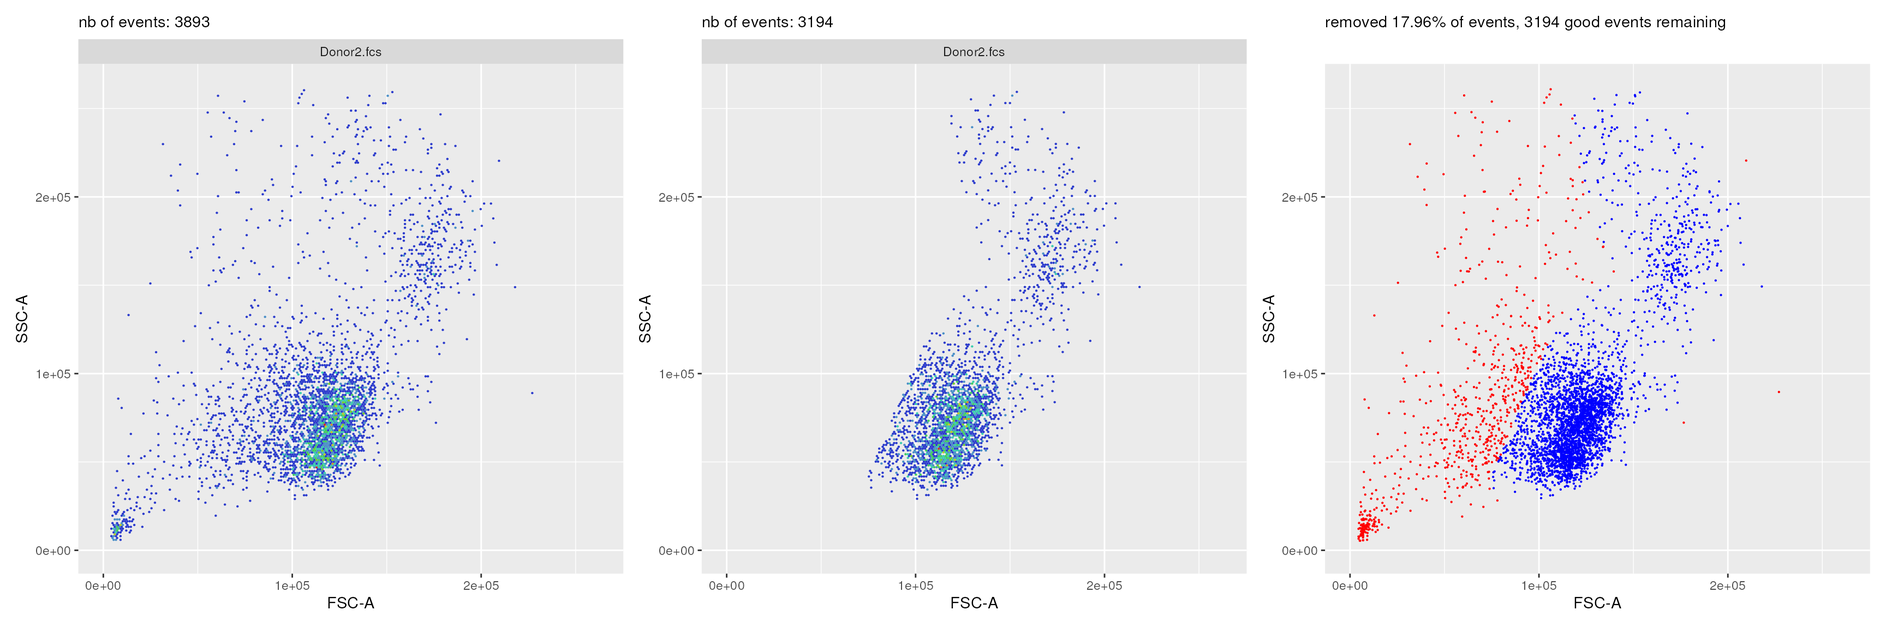
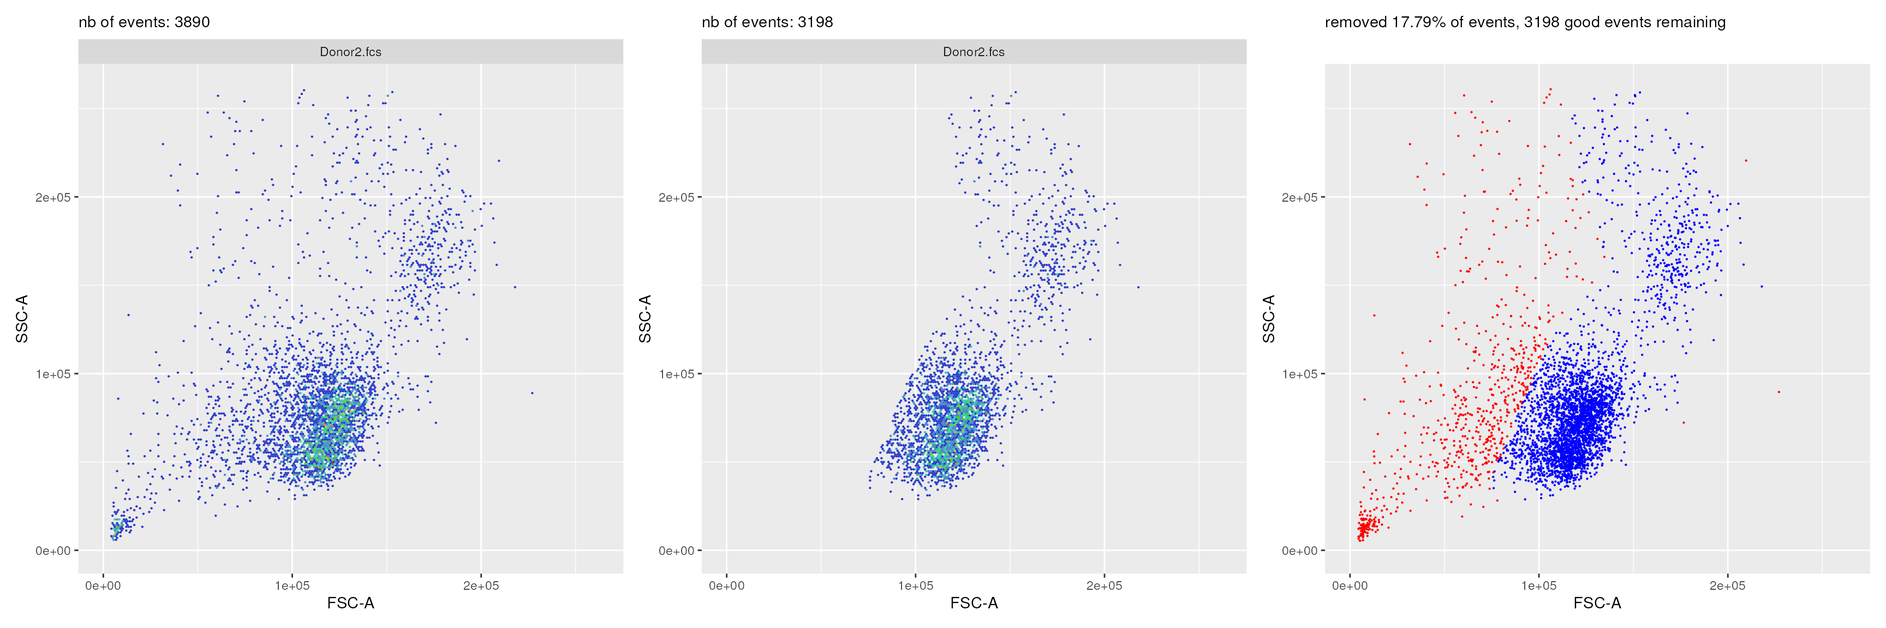
Deploying to gh-pages from @ phauchamps/CytoPipeline_BiocWS@13a338183e26586512362e38a291ed021830cdcc 🚀

diff --git a/articles/CytoPipeline_Workshop.html b/articles/CytoPipeline_Workshop.html
@@ -644,8 +644,6 @@ needed steps, we can run it, by calling the
 <span><span class="co">#&gt; Proceeding with step 3 [perform_QC] ...</span></span>
 <span><span class="co">#&gt; Applying flowAI method...</span></span>
 <span><span class="co">#&gt; Quality control for the file: Donor1</span></span>
-<span><span class="co">#&gt; Warning in ord_fcs_time(set[[i]], timeCh): Expression data in the file</span></span>
-<span><span class="co">#&gt; Donor1.fcs were not originally ordered by time.</span></span>
 <span><span class="co">#&gt; 3.56% of anomalous cells detected in the flow rate check. </span></span>
 <span><span class="co">#&gt; 0% of anomalous cells detected in signal acquisition check. </span></span>
 <span><span class="co">#&gt; 0.02% of anomalous cells detected in the dynamic range check.</span></span>
@@ -653,7 +651,7 @@ needed steps, we can run it, by calling the
 <span><span class="co">#&gt; Compensating file : Donor1.fcs</span></span>
 <span><span class="co">#&gt; Proceeding with step 5 [remove_doublets] ...</span></span>
 <span><span class="co">#&gt; Proceeding with step 6 [remove_debris] ...</span></span>
-<span><span class="co">#&gt; Error in removeDebrisFlowClustTmix(new("flowFrame", exprs = structure(c(7482.96044921875,  : </span></span>
+<span><span class="co">#&gt; Error in removeDebrisFlowClustTmix(new("flowFrame", exprs = structure(c(30859.201171875,  : </span></span>
 <span><span class="co">#&gt;   argument "nClust" is missing, with no default</span></span></code></pre></div>
 <p>Here, this leads to an error message in the
 <code>remove_debris</code> step, complaining that the
@@ -711,8 +709,6 @@ under the same experiment name :</p>
 <span><span class="co">#&gt; Using the serial version of flowClust</span></span>
 <span><span class="co">#&gt; Proceeding with step 7 [remove_dead_cells] ...</span></span>
 <span><span class="co">#&gt; Removing Dead Cells events (using flowDensity::deGate()) from file : Donor1.fcs</span></span>
-<span><span class="co">#&gt; Warning: replacing previous import 'RPMG::ColorScale' by 'GEOmap::ColorScale'</span></span>
-<span><span class="co">#&gt; when loading 'RFOC'</span></span>
 <span><span class="co">#&gt; The legacy packages maptools, rgdal, and rgeos, underpinning the sp package,</span></span>
 <span><span class="co">#&gt; which was just loaded, will retire in October 2023.</span></span>
 <span><span class="co">#&gt; Please refer to R-spatial evolution reports for details, especially</span></span>
@@ -740,8 +736,6 @@ under the same experiment name :</p>
 <span><span class="co">#&gt; Proceeding with step 3 [perform_QC] ...</span></span>
 <span><span class="co">#&gt; Applying flowAI method...</span></span>
 <span><span class="co">#&gt; Quality control for the file: Donor2</span></span>
-<span><span class="co">#&gt; Warning in ord_fcs_time(set[[i]], timeCh): Expression data in the file</span></span>
-<span><span class="co">#&gt; Donor2.fcs were not originally ordered by time.</span></span>
 <span><span class="co">#&gt; 3.98% of anomalous cells detected in the flow rate check. </span></span>
 <span><span class="co">#&gt; 0% of anomalous cells detected in signal acquisition check. </span></span>
 <span><span class="co">#&gt; 0.13% of anomalous cells detected in the dynamic range check.</span></span>
@@ -839,8 +833,6 @@ between the two versions.</p>
 <span><span class="co">#&gt; Proceeding with step 3 [perform_QC] ...</span></span>
 <span><span class="co">#&gt; Applying flowAI method...</span></span>
 <span><span class="co">#&gt; Quality control for the file: Donor1</span></span>
-<span><span class="co">#&gt; Warning in ord_fcs_time(set[[i]], timeCh): Expression data in the file</span></span>
-<span><span class="co">#&gt; Donor1.fcs were not originally ordered by time.</span></span>
 <span><span class="co">#&gt; 3.56% of anomalous cells detected in the flow rate check. </span></span>
 <span><span class="co">#&gt; 0% of anomalous cells detected in signal acquisition check. </span></span>
 <span><span class="co">#&gt; 0.02% of anomalous cells detected in the dynamic range check.</span></span>
@@ -861,8 +853,6 @@ between the two versions.</p>
 <span><span class="co">#&gt; Proceeding with step 3 [perform_QC] ...</span></span>
 <span><span class="co">#&gt; Applying flowAI method...</span></span>
 <span><span class="co">#&gt; Quality control for the file: Donor2</span></span>
-<span><span class="co">#&gt; Warning in ord_fcs_time(set[[i]], timeCh): Expression data in the file</span></span>
-<span><span class="co">#&gt; Donor2.fcs were not originally ordered by time.</span></span>
 <span><span class="co">#&gt; 3.98% of anomalous cells detected in the flow rate check. </span></span>
 <span><span class="co">#&gt; 0% of anomalous cells detected in signal acquisition check. </span></span>
 <span><span class="co">#&gt; 0.13% of anomalous cells detected in the dynamic range check.</span></span>
@@ -1149,9 +1139,6 @@ The pipeline is described in the following json file:</p>
 <span><span class="co">#&gt; Compensating file : Donor1.fcs</span></span>
 <span><span class="co">#&gt; Proceeding with step 4 [perform_QC] ...</span></span>
 <span><span class="co">#&gt; Applying PeacoQC method...</span></span>
-<span><span class="co">#&gt; Warning in CheckInputSignalStability(ff, channels, determine_good_cells, :</span></span>
-<span><span class="co">#&gt; There is an inconsistancy in the time channel.  It seems that not all the cells</span></span>
-<span><span class="co">#&gt; are ordered according to time in the flowframe.</span></span>
 <span><span class="co">#&gt; Starting quality control analysis for Donor1.fcs</span></span>
 <span><span class="co">#&gt; Warning in FindIncreasingDecreasingChannels(breaks, ff, channels, plot, : There</span></span>
 <span><span class="co">#&gt; seems to be an increasing or decreasing trend in a channel for Donor1.fcs .</span></span>
@@ -1159,8 +1146,8 @@ The pipeline is described in the following json file:</p>
 <span><span class="co">#&gt; Calculating peaks</span></span>
 <span><span class="co">#&gt; Warning in PeacoQC::PeacoQC(ff = ffIn, channels = channel4QualityControl, :</span></span>
 <span><span class="co">#&gt; There are not enough bins for a robust isolation tree analysis.</span></span>
-<span><span class="co">#&gt; MAD analysis removed 5.32% of the measurements</span></span>
-<span><span class="co">#&gt; The algorithm removed 5.32% of the measurements</span></span>
+<span><span class="co">#&gt; MAD analysis removed 47.4% of the measurements</span></span>
+<span><span class="co">#&gt; The algorithm removed 47.4% of the measurements</span></span>
 <span><span class="co">#&gt; Proceeding with step 5 [remove_doublets] ...</span></span>
 <span><span class="co">#&gt; Proceeding with step 6 [remove_debris] ...</span></span>
 <span><span class="co">#&gt; The prior specification has no effect when usePrior=no</span></span>
@@ -1177,9 +1164,6 @@ The pipeline is described in the following json file:</p>
 <span><span class="co">#&gt; Compensating file : Donor2.fcs</span></span>
 <span><span class="co">#&gt; Proceeding with step 4 [perform_QC] ...</span></span>
 <span><span class="co">#&gt; Applying PeacoQC method...</span></span>
-<span><span class="co">#&gt; Warning in CheckInputSignalStability(ff, channels, determine_good_cells, :</span></span>
-<span><span class="co">#&gt; There is an inconsistancy in the time channel.  It seems that not all the cells</span></span>
-<span><span class="co">#&gt; are ordered according to time in the flowframe.</span></span>
 <span><span class="co">#&gt; Starting quality control analysis for Donor2.fcs</span></span>
 <span><span class="co">#&gt; Warning in FindIncreasingDecreasingChannels(breaks, ff, channels, plot, : There</span></span>
 <span><span class="co">#&gt; seems to be an increasing or decreasing trend in a channel for Donor2.fcs .</span></span>
@@ -1187,8 +1171,8 @@ The pipeline is described in the following json file:</p>
 <span><span class="co">#&gt; Calculating peaks</span></span>
 <span><span class="co">#&gt; Warning in PeacoQC::PeacoQC(ff = ffIn, channels = channel4QualityControl, :</span></span>
 <span><span class="co">#&gt; There are not enough bins for a robust isolation tree analysis.</span></span>
-<span><span class="co">#&gt; MAD analysis removed 1% of the measurements</span></span>
-<span><span class="co">#&gt; The algorithm removed 1% of the measurements</span></span>
+<span><span class="co">#&gt; MAD analysis removed 11.42% of the measurements</span></span>
+<span><span class="co">#&gt; The algorithm removed 11.42% of the measurements</span></span>
 <span><span class="co">#&gt; Proceeding with step 5 [remove_doublets] ...</span></span>
 <span><span class="co">#&gt; Proceeding with step 6 [remove_debris] ...</span></span>
 <span><span class="co">#&gt; The prior specification has no effect when usePrior=no</span></span>
@@ -1283,9 +1267,6 @@ the same experiment id, but with an amended pipeline definition.</p>
 <span><span class="co">#&gt; Compensating file : Donor1.fcs</span></span>
 <span><span class="co">#&gt; Proceeding with step 4 [perform_QC] ...</span></span>
 <span><span class="co">#&gt; Applying PeacoQC method...</span></span>
-<span><span class="co">#&gt; Warning in CheckInputSignalStability(ff, channels, determine_good_cells, :</span></span>
-<span><span class="co">#&gt; There is an inconsistancy in the time channel.  It seems that not all the cells</span></span>
-<span><span class="co">#&gt; are ordered according to time in the flowframe.</span></span>
 <span><span class="co">#&gt; Starting quality control analysis for Donor1.fcs</span></span>
 <span><span class="co">#&gt; Warning in FindIncreasingDecreasingChannels(breaks, ff, channels, plot, : There</span></span>
 <span><span class="co">#&gt; seems to be an increasing or decreasing trend in a channel for Donor1.fcs .</span></span>
@@ -1293,8 +1274,8 @@ the same experiment id, but with an amended pipeline definition.</p>
 <span><span class="co">#&gt; Calculating peaks</span></span>
 <span><span class="co">#&gt; Warning in PeacoQC::PeacoQC(ff = ffIn, channels = channel4QualityControl, :</span></span>
 <span><span class="co">#&gt; There are not enough bins for a robust isolation tree analysis.</span></span>
-<span><span class="co">#&gt; MAD analysis removed 5.32% of the measurements</span></span>
-<span><span class="co">#&gt; The algorithm removed 5.32% of the measurements</span></span>
+<span><span class="co">#&gt; MAD analysis removed 47.4% of the measurements</span></span>
+<span><span class="co">#&gt; The algorithm removed 47.4% of the measurements</span></span>
 <span><span class="co">#&gt; Proceeding with step 5 [remove_doublets] ...</span></span>
 <span><span class="co">#&gt; Proceeding with step 6 [remove_debris] ...</span></span>
 <span><span class="co">#&gt; The prior specification has no effect when usePrior=no</span></span>
@@ -1311,9 +1292,6 @@ the same experiment id, but with an amended pipeline definition.</p>
 <span><span class="co">#&gt; Compensating file : Donor2.fcs</span></span>
 <span><span class="co">#&gt; Proceeding with step 4 [perform_QC] ...</span></span>
 <span><span class="co">#&gt; Applying PeacoQC method...</span></span>
-<span><span class="co">#&gt; Warning in CheckInputSignalStability(ff, channels, determine_good_cells, :</span></span>
-<span><span class="co">#&gt; There is an inconsistancy in the time channel.  It seems that not all the cells</span></span>
-<span><span class="co">#&gt; are ordered according to time in the flowframe.</span></span>
 <span><span class="co">#&gt; Starting quality control analysis for Donor2.fcs</span></span>
 <span><span class="co">#&gt; Warning in FindIncreasingDecreasingChannels(breaks, ff, channels, plot, : There</span></span>
 <span><span class="co">#&gt; seems to be an increasing or decreasing trend in a channel for Donor2.fcs .</span></span>
@@ -1321,8 +1299,8 @@ the same experiment id, but with an amended pipeline definition.</p>
 <span><span class="co">#&gt; Calculating peaks</span></span>
 <span><span class="co">#&gt; Warning in PeacoQC::PeacoQC(ff = ffIn, channels = channel4QualityControl, :</span></span>
 <span><span class="co">#&gt; There are not enough bins for a robust isolation tree analysis.</span></span>
-<span><span class="co">#&gt; MAD analysis removed 1% of the measurements</span></span>
-<span><span class="co">#&gt; The algorithm removed 1% of the measurements</span></span>
+<span><span class="co">#&gt; MAD analysis removed 11.42% of the measurements</span></span>
+<span><span class="co">#&gt; The algorithm removed 11.42% of the measurements</span></span>
 <span><span class="co">#&gt; Proceeding with step 5 [remove_doublets] ...</span></span>
 <span><span class="co">#&gt; Proceeding with step 6 [remove_debris] ...</span></span>
 <span><span class="co">#&gt; The prior specification has no effect when usePrior=no</span></span>
@@ -1377,16 +1355,16 @@ used.</p>
 <span id="cb16-36"><a href="#cb16-36" tabindex="-1"></a>  <span class="sc">|</span>                                                                            </span>
 <span id="cb16-37"><a href="#cb16-37" tabindex="-1"></a>  <span class="er">|</span>                                                                      <span class="er">|</span>   <span class="dv">0</span>%</span>
 <span id="cb16-38"><a href="#cb16-38" tabindex="-1"></a><span class="co">#&gt; #####################################################</span></span>
-<span id="cb16-39"><a href="#cb16-39" tabindex="-1"></a><span class="co">#&gt; </span><span class="al">###</span><span class="co"> NOW PRE-PROCESSING FILE /usr/local/lib/R/site-library/CytoPipeline/extdata/Donor2.fcs...</span></span>
+<span id="cb16-39"><a href="#cb16-39" tabindex="-1"></a><span class="co">#&gt; </span><span class="al">###</span><span class="co"> NOW PRE-PROCESSING FILE /usr/local/lib/R/site-library/CytoPipeline/extdata/Donor1.fcs...</span></span>
 <span id="cb16-40"><a href="#cb16-40" tabindex="-1"></a><span class="co">#&gt; #####################################################</span></span>
 <span id="cb16-41"><a href="#cb16-41" tabindex="-1"></a><span class="co">#&gt; Proceeding with step 1 [flowframe_read] ...</span></span>
 <span id="cb16-42"><a href="#cb16-42" tabindex="-1"></a><span class="co">#&gt; Proceeding with step 2 [remove_margins] ...</span></span>
-<span id="cb16-43"><a href="#cb16-43" tabindex="-1"></a><span class="co">#&gt; Removing margins from file : Donor2.fcs</span></span>
+<span id="cb16-43"><a href="#cb16-43" tabindex="-1"></a><span class="co">#&gt; Removing margins from file : Donor1.fcs</span></span>
 <span id="cb16-44"><a href="#cb16-44" tabindex="-1"></a><span class="co">#&gt; Proceeding with step 3 [compensate] ...</span></span>
-<span id="cb16-45"><a href="#cb16-45" tabindex="-1"></a><span class="co">#&gt; Compensating file : Donor2.fcs</span></span>
+<span id="cb16-45"><a href="#cb16-45" tabindex="-1"></a><span class="co">#&gt; Compensating file : Donor1.fcs</span></span>
 <span id="cb16-46"><a href="#cb16-46" tabindex="-1"></a><span class="co">#&gt; Proceeding with step 4 [perform_QC] ...</span></span>
 <span id="cb16-47"><a href="#cb16-47" tabindex="-1"></a><span class="co">#&gt; Applying PeacoQC method...</span></span>
-<span id="cb16-48"><a href="#cb16-48" tabindex="-1"></a><span class="co">#&gt; Starting quality control analysis for Donor2.fcs</span></span>
+<span id="cb16-48"><a href="#cb16-48" tabindex="-1"></a><span class="co">#&gt; Starting quality control analysis for Donor1.fcs</span></span>
 <span id="cb16-49"><a href="#cb16-49" tabindex="-1"></a><span class="co">#&gt; Calculating peaks</span></span>
 <span id="cb16-50"><a href="#cb16-50" tabindex="-1"></a><span class="co">#&gt; </span></span>
 <span id="cb16-51"><a href="#cb16-51" tabindex="-1"></a>  <span class="sc">|</span>                                                        </span>
@@ -1431,14 +1409,14 @@ used.</p>
 <span id="cb16-90"><a href="#cb16-90" tabindex="-1"></a>  <span class="er">|</span><span class="sc">++++++++++++++++++++++++++++++++++++++++++++++++</span>  <span class="er">|</span>  <span class="dv">95</span>%</span>
 <span id="cb16-91"><a href="#cb16-91" tabindex="-1"></a>  <span class="sc">|</span>                                                        </span>
 <span id="cb16-92"><a href="#cb16-92" tabindex="-1"></a>  <span class="er">|</span><span class="sc">++++++++++++++++++++++++++++++++++++++++++++++++++</span><span class="er">|</span> <span class="dv">100</span>%</span>
-<span id="cb16-93"><a href="#cb16-93" tabindex="-1"></a><span class="co">#&gt; MAD analysis removed 1% of the measurements</span></span>
-<span id="cb16-94"><a href="#cb16-94" tabindex="-1"></a><span class="co">#&gt; The algorithm removed 1% of the measurements</span></span>
+<span id="cb16-93"><a href="#cb16-93" tabindex="-1"></a><span class="co">#&gt; MAD analysis removed 47.4% of the measurements</span></span>
+<span id="cb16-94"><a href="#cb16-94" tabindex="-1"></a><span class="co">#&gt; The algorithm removed 47.4% of the measurements</span></span>
 <span id="cb16-95"><a href="#cb16-95" tabindex="-1"></a><span class="co">#&gt; Proceeding with step 5 [remove_doublets] ...</span></span>
 <span id="cb16-96"><a href="#cb16-96" tabindex="-1"></a><span class="co">#&gt; Proceeding with step 6 [remove_debris] ...</span></span>
 <span id="cb16-97"><a href="#cb16-97" tabindex="-1"></a><span class="co">#&gt; The prior specification has no effect when usePrior=no</span></span>
 <span id="cb16-98"><a href="#cb16-98" tabindex="-1"></a><span class="co">#&gt; Using the serial version of flowClust</span></span>
 <span id="cb16-99"><a href="#cb16-99" tabindex="-1"></a><span class="co">#&gt; Proceeding with step 7 [remove_dead_cells] ...</span></span>
-<span id="cb16-100"><a href="#cb16-100" tabindex="-1"></a><span class="co">#&gt; Removing Dead Cells events (using flowDensity::deGate()) from file : Donor2.fcs</span></span>
+<span id="cb16-100"><a href="#cb16-100" tabindex="-1"></a><span class="co">#&gt; Removing Dead Cells events (using flowDensity::deGate()) from file : Donor1.fcs</span></span>
 <span id="cb16-101"><a href="#cb16-101" tabindex="-1"></a><span class="co">#&gt; The legacy packages maptools, rgdal, and rgeos, underpinning the sp package,</span></span>
 <span id="cb16-102"><a href="#cb16-102" tabindex="-1"></a><span class="co">#&gt; which was just loaded, will retire in October 2023.</span></span>
 <span id="cb16-103"><a href="#cb16-103" tabindex="-1"></a><span class="co">#&gt; Please refer to R-spatial evolution reports for details, especially</span></span>
@@ -1459,16 +1437,16 @@ used.</p>
 <span id="cb16-118"><a href="#cb16-118" tabindex="-1"></a>  <span class="sc">|</span>                                                                            </span>
 <span id="cb16-119"><a href="#cb16-119" tabindex="-1"></a>  <span class="er">|===================================</span>                                   <span class="er">|</span>  <span class="dv">50</span>%</span>
 <span id="cb16-120"><a href="#cb16-120" tabindex="-1"></a><span class="co">#&gt; #####################################################</span></span>
-<span id="cb16-121"><a href="#cb16-121" tabindex="-1"></a><span class="co">#&gt; </span><span class="al">###</span><span class="co"> NOW PRE-PROCESSING FILE /usr/local/lib/R/site-library/CytoPipeline/extdata/Donor1.fcs...</span></span>
+<span id="cb16-121"><a href="#cb16-121" tabindex="-1"></a><span class="co">#&gt; </span><span class="al">###</span><span class="co"> NOW PRE-PROCESSING FILE /usr/local/lib/R/site-library/CytoPipeline/extdata/Donor2.fcs...</span></span>
 <span id="cb16-122"><a href="#cb16-122" tabindex="-1"></a><span class="co">#&gt; #####################################################</span></span>
 <span id="cb16-123"><a href="#cb16-123" tabindex="-1"></a><span class="co">#&gt; Proceeding with step 1 [flowframe_read] ...</span></span>
 <span id="cb16-124"><a href="#cb16-124" tabindex="-1"></a><span class="co">#&gt; Proceeding with step 2 [remove_margins] ...</span></span>
-<span id="cb16-125"><a href="#cb16-125" tabindex="-1"></a><span class="co">#&gt; Removing margins from file : Donor1.fcs</span></span>
+<span id="cb16-125"><a href="#cb16-125" tabindex="-1"></a><span class="co">#&gt; Removing margins from file : Donor2.fcs</span></span>
 <span id="cb16-126"><a href="#cb16-126" tabindex="-1"></a><span class="co">#&gt; Proceeding with step 3 [compensate] ...</span></span>
-<span id="cb16-127"><a href="#cb16-127" tabindex="-1"></a><span class="co">#&gt; Compensating file : Donor1.fcs</span></span>
+<span id="cb16-127"><a href="#cb16-127" tabindex="-1"></a><span class="co">#&gt; Compensating file : Donor2.fcs</span></span>
 <span id="cb16-128"><a href="#cb16-128" tabindex="-1"></a><span class="co">#&gt; Proceeding with step 4 [perform_QC] ...</span></span>
 <span id="cb16-129"><a href="#cb16-129" tabindex="-1"></a><span class="co">#&gt; Applying PeacoQC method...</span></span>
-<span id="cb16-130"><a href="#cb16-130" tabindex="-1"></a><span class="co">#&gt; Starting quality control analysis for Donor1.fcs</span></span>
+<span id="cb16-130"><a href="#cb16-130" tabindex="-1"></a><span class="co">#&gt; Starting quality control analysis for Donor2.fcs</span></span>
 <span id="cb16-131"><a href="#cb16-131" tabindex="-1"></a><span class="co">#&gt; Calculating peaks</span></span>
 <span id="cb16-132"><a href="#cb16-132" tabindex="-1"></a><span class="co">#&gt; </span></span>
 <span id="cb16-133"><a href="#cb16-133" tabindex="-1"></a>  <span class="sc">|</span>                                                        </span>
@@ -1513,14 +1491,14 @@ used.</p>
 <span id="cb16-172"><a href="#cb16-172" tabindex="-1"></a>  <span class="er">|</span><span class="sc">++++++++++++++++++++++++++++++++++++++++++++++++</span>  <span class="er">|</span>  <span class="dv">95</span>%</span>
 <span id="cb16-173"><a href="#cb16-173" tabindex="-1"></a>  <span class="sc">|</span>                                                        </span>
 <span id="cb16-174"><a href="#cb16-174" tabindex="-1"></a>  <span class="er">|</span><span class="sc">++++++++++++++++++++++++++++++++++++++++++++++++++</span><span class="er">|</span> <span class="dv">100</span>%</span>
-<span id="cb16-175"><a href="#cb16-175" tabindex="-1"></a><span class="co">#&gt; MAD analysis removed 5.32% of the measurements</span></span>
-<span id="cb16-176"><a href="#cb16-176" tabindex="-1"></a><span class="co">#&gt; The algorithm removed 5.32% of the measurements</span></span>
+<span id="cb16-175"><a href="#cb16-175" tabindex="-1"></a><span class="co">#&gt; MAD analysis removed 11.42% of the measurements</span></span>
+<span id="cb16-176"><a href="#cb16-176" tabindex="-1"></a><span class="co">#&gt; The algorithm removed 11.42% of the measurements</span></span>
 <span id="cb16-177"><a href="#cb16-177" tabindex="-1"></a><span class="co">#&gt; Proceeding with step 5 [remove_doublets] ...</span></span>
 <span id="cb16-178"><a href="#cb16-178" tabindex="-1"></a><span class="co">#&gt; Proceeding with step 6 [remove_debris] ...</span></span>
 <span id="cb16-179"><a href="#cb16-179" tabindex="-1"></a><span class="co">#&gt; The prior specification has no effect when usePrior=no</span></span>
 <span id="cb16-180"><a href="#cb16-180" tabindex="-1"></a><span class="co">#&gt; Using the serial version of flowClust</span></span>
 <span id="cb16-181"><a href="#cb16-181" tabindex="-1"></a><span class="co">#&gt; Proceeding with step 7 [remove_dead_cells] ...</span></span>
-<span id="cb16-182"><a href="#cb16-182" tabindex="-1"></a><span class="co">#&gt; Removing Dead Cells events (using flowDensity::deGate()) from file : Donor1.fcs</span></span>
+<span id="cb16-182"><a href="#cb16-182" tabindex="-1"></a><span class="co">#&gt; Removing Dead Cells events (using flowDensity::deGate()) from file : Donor2.fcs</span></span>
 <span id="cb16-183"><a href="#cb16-183" tabindex="-1"></a><span class="co">#&gt; The legacy packages maptools, rgdal, and rgeos, underpinning the sp package,</span></span>
 <span id="cb16-184"><a href="#cb16-184" tabindex="-1"></a><span class="co">#&gt; which was just loaded, will retire in October 2023.</span></span>
 <span id="cb16-185"><a href="#cb16-185" tabindex="-1"></a><span class="co">#&gt; Please refer to R-spatial evolution reports for details, especially</span></span>
@@ -1569,61 +1547,60 @@ used.</p>
 <span><span class="co">#&gt; [1] stats     graphics  grDevices utils     datasets  methods   base     </span></span>
 <span><span class="co">#&gt; </span></span>
 <span><span class="co">#&gt; other attached packages:</span></span>
-<span><span class="co">#&gt; [1] patchwork_1.1.3          CytoPipelineUtils_0.99.1 CytoPipelineGUI_0.99.0  </span></span>
-<span><span class="co">#&gt; [4] CytoPipeline_1.1.3      </span></span>
+<span><span class="co">#&gt; [1] patchwork_1.1.3          CytoPipelineUtils_0.99.1 CytoPipelineGUI_0.99.2  </span></span>
+<span><span class="co">#&gt; [4] CytoPipeline_1.1.5      </span></span>
 <span><span class="co">#&gt; </span></span>
 <span><span class="co">#&gt; loaded via a namespace (and not attached):</span></span>
 <span><span class="co">#&gt;   [1] RColorBrewer_1.1-3    jsonlite_1.8.7        shape_1.4.6          </span></span>
-<span><span class="co">#&gt;   [4] magrittr_2.0.3        farver_2.1.1          rmarkdown_2.24       </span></span>
+<span><span class="co">#&gt;   [4] magrittr_2.0.3        farver_2.1.1          rmarkdown_2.25       </span></span>
 <span><span class="co">#&gt;   [7] GlobalOptions_0.1.2   fs_1.6.3              fields_15.2          </span></span>
 <span><span class="co">#&gt;  [10] zlibbioc_1.47.0       ragg_1.2.5            vctrs_0.6.3          </span></span>
 <span><span class="co">#&gt;  [13] memoise_2.0.1         RPMG_2.2-7            htmltools_0.5.6      </span></span>
 <span><span class="co">#&gt;  [16] curl_5.0.2            sass_0.4.7            flowDensity_1.35.0   </span></span>
 <span><span class="co">#&gt;  [19] KernSmooth_2.23-22    bslib_0.5.1           desc_1.4.2           </span></span>
 <span><span class="co">#&gt;  [22] plyr_1.8.8            zoo_1.8-12            cachem_1.0.8         </span></span>
-<span><span class="co">#&gt;  [25] changepoint_2.2.4     RFOC_3.4-6            mime_0.12            </span></span>
+<span><span class="co">#&gt;  [25] changepoint_2.2.4     RFOC_3.4-10           mime_0.12            </span></span>
 <span><span class="co">#&gt;  [28] lifecycle_1.0.3       iterators_1.0.14      pkgconfig_2.0.3      </span></span>
 <span><span class="co">#&gt;  [31] R6_2.5.1              fastmap_1.1.1         shiny_1.7.5          </span></span>
 <span><span class="co">#&gt;  [34] clue_0.3-64           digest_0.6.33         colorspace_2.1-0     </span></span>
 <span><span class="co">#&gt;  [37] S4Vectors_0.39.1      rprojroot_2.0.3       textshaping_0.3.6    </span></span>
 <span><span class="co">#&gt;  [40] RSQLite_2.3.1         labeling_0.4.3        filelock_1.0.2       </span></span>
 <span><span class="co">#&gt;  [43] cytolib_2.13.1        fansi_1.0.4           httr_1.4.7           </span></span>
-<span><span class="co">#&gt;  [46] abind_1.4-5           compiler_4.3.1        splancs_2.01-44      </span></span>
-<span><span class="co">#&gt;  [49] proxy_0.4-27          bit64_4.0.5           withr_2.5.0          </span></span>
-<span><span class="co">#&gt;  [52] doParallel_1.0.17     BiocParallel_1.35.4   carData_3.0-5        </span></span>
-<span><span class="co">#&gt;  [55] DBI_1.1.3             RSEIS_4.1-6           flowClust_3.39.0     </span></span>
-<span><span class="co">#&gt;  [58] hexbin_1.28.3         highr_0.10            gplots_3.1.3         </span></span>
-<span><span class="co">#&gt;  [61] maps_3.4.1            MASS_7.3-60           GEOmap_2.5-2         </span></span>
-<span><span class="co">#&gt;  [64] classInt_0.4-9        rjson_0.2.21          gtools_3.9.4         </span></span>
-<span><span class="co">#&gt;  [67] caTools_1.18.2        units_0.8-3           tools_4.3.1          </span></span>
-<span><span class="co">#&gt;  [70] httpuv_1.6.11         flowAI_1.31.0         IDPmisc_1.1.20       </span></span>
-<span><span class="co">#&gt;  [73] MBA_0.1-0             glue_1.6.2            promises_1.2.1       </span></span>
-<span><span class="co">#&gt;  [76] sf_1.0-14             grid_4.3.1            cluster_2.1.4        </span></span>
-<span><span class="co">#&gt;  [79] reshape2_1.4.4        snow_0.4-4            generics_0.1.3       </span></span>
-<span><span class="co">#&gt;  [82] gtable_0.3.4          class_7.3-22          data.table_1.14.8    </span></span>
-<span><span class="co">#&gt;  [85] sp_2.0-0              car_3.1-2             utf8_1.2.3           </span></span>
-<span><span class="co">#&gt;  [88] BiocGenerics_0.47.0   foreach_1.5.2         pillar_1.9.0         </span></span>
-<span><span class="co">#&gt;  [91] stringr_1.5.0         spam_2.9-1            later_1.3.1          </span></span>
-<span><span class="co">#&gt;  [94] circlize_0.4.15       flowCore_2.13.1       dplyr_1.1.2          </span></span>
-<span><span class="co">#&gt;  [97] PeacoQC_1.11.2        BiocFileCache_2.9.1   lattice_0.21-8       </span></span>
-<span><span class="co">#&gt; [100] deldir_1.0-9          bit_4.0.5             RProtoBufLib_2.13.1  </span></span>
-<span><span class="co">#&gt; [103] tidyselect_1.2.0      ComplexHeatmap_2.17.0 ggcyto_1.29.1        </span></span>
-<span><span class="co">#&gt; [106] knitr_1.43            gridExtra_2.3         IRanges_2.35.2       </span></span>
-<span><span class="co">#&gt; [109] flowWorkspace_4.13.2  stats4_4.3.1          xfun_0.40            </span></span>
-<span><span class="co">#&gt; [112] Biobase_2.61.0        matrixStats_1.0.0     stringi_1.7.12       </span></span>
-<span><span class="co">#&gt; [115] ncdfFlow_2.47.0       yaml_2.3.7            Rwave_2.6-5          </span></span>
-<span><span class="co">#&gt; [118] evaluate_0.21         codetools_0.2-19      interp_1.1-4         </span></span>
-<span><span class="co">#&gt; [121] tibble_3.2.1          Rgraphviz_2.45.0      graph_1.79.0         </span></span>
-<span><span class="co">#&gt; [124] cli_3.6.1             flowViz_1.65.0        xtable_1.8-4         </span></span>
-<span><span class="co">#&gt; [127] systemfonts_1.0.4     munsell_0.5.0         jquerylib_0.1.4      </span></span>
-<span><span class="co">#&gt; [130] Rcpp_1.0.11           dbplyr_2.3.3          png_0.1-8            </span></span>
-<span><span class="co">#&gt; [133] XML_3.99-0.14         parallel_4.3.1        ellipsis_0.3.2       </span></span>
-<span><span class="co">#&gt; [136] pkgdown_2.0.7         ggplot2_3.4.3         blob_1.2.4           </span></span>
-<span><span class="co">#&gt; [139] dotCall64_1.0-2       jpeg_0.1-10           latticeExtra_0.6-30  </span></span>
-<span><span class="co">#&gt; [142] diagram_1.6.5         bitops_1.0-7          viridisLite_0.4.2    </span></span>
-<span><span class="co">#&gt; [145] e1071_1.7-13          scales_1.2.1          purrr_1.0.2          </span></span>
-<span><span class="co">#&gt; [148] crayon_1.5.2          GetoptLong_1.0.5      rlang_1.1.1          </span></span>
-<span><span class="co">#&gt; [151] rgeos_0.6-4</span></span></code></pre>
+<span><span class="co">#&gt;  [46] abind_1.4-5           compiler_4.3.1        proxy_0.4-27         </span></span>
+<span><span class="co">#&gt;  [49] bit64_4.0.5           withr_2.5.0           doParallel_1.0.17    </span></span>
+<span><span class="co">#&gt;  [52] BiocParallel_1.35.4   carData_3.0-5         DBI_1.1.3            </span></span>
+<span><span class="co">#&gt;  [55] RSEIS_4.1-6           flowClust_3.39.0      hexbin_1.28.3        </span></span>
+<span><span class="co">#&gt;  [58] gplots_3.1.3          maps_3.4.1            MASS_7.3-60          </span></span>
+<span><span class="co">#&gt;  [61] GEOmap_2.5-5          classInt_0.4-10       rjson_0.2.21         </span></span>
+<span><span class="co">#&gt;  [64] gtools_3.9.4          caTools_1.18.2        units_0.8-4          </span></span>
+<span><span class="co">#&gt;  [67] tools_4.3.1           httpuv_1.6.11         flowAI_1.31.0        </span></span>
+<span><span class="co">#&gt;  [70] IDPmisc_1.1.20        MBA_0.1-0             glue_1.6.2           </span></span>
+<span><span class="co">#&gt;  [73] promises_1.2.1        sf_1.0-14             grid_4.3.1           </span></span>
+<span><span class="co">#&gt;  [76] cluster_2.1.4         reshape2_1.4.4        snow_0.4-4           </span></span>
+<span><span class="co">#&gt;  [79] generics_0.1.3        gtable_0.3.4          class_7.3-22         </span></span>
+<span><span class="co">#&gt;  [82] data.table_1.14.8     sp_2.0-0              car_3.1-2            </span></span>
+<span><span class="co">#&gt;  [85] utf8_1.2.3            BiocGenerics_0.47.0   foreach_1.5.2        </span></span>
+<span><span class="co">#&gt;  [88] pillar_1.9.0          stringr_1.5.0         spam_2.9-1           </span></span>
+<span><span class="co">#&gt;  [91] later_1.3.1           circlize_0.4.15       flowCore_2.13.1      </span></span>
+<span><span class="co">#&gt;  [94] dplyr_1.1.3           PeacoQC_1.11.2        BiocFileCache_2.9.1  </span></span>
+<span><span class="co">#&gt;  [97] lattice_0.21-8        deldir_1.0-9          bit_4.0.5            </span></span>
+<span><span class="co">#&gt; [100] RProtoBufLib_2.13.1   tidyselect_1.2.0      ComplexHeatmap_2.17.0</span></span>
+<span><span class="co">#&gt; [103] ggcyto_1.29.1         knitr_1.44            gridExtra_2.3        </span></span>
+<span><span class="co">#&gt; [106] IRanges_2.35.2        flowWorkspace_4.13.2  stats4_4.3.1         </span></span>
+<span><span class="co">#&gt; [109] xfun_0.40             Biobase_2.61.0        matrixStats_1.0.0    </span></span>
+<span><span class="co">#&gt; [112] stringi_1.7.12        ncdfFlow_2.47.0       yaml_2.3.7           </span></span>
+<span><span class="co">#&gt; [115] Rwave_2.6-5           evaluate_0.21         codetools_0.2-19     </span></span>
+<span><span class="co">#&gt; [118] interp_1.1-4          tibble_3.2.1          Rgraphviz_2.45.0     </span></span>
+<span><span class="co">#&gt; [121] graph_1.79.1          cli_3.6.1             flowViz_1.65.0       </span></span>
+<span><span class="co">#&gt; [124] xtable_1.8-4          systemfonts_1.0.4     munsell_0.5.0        </span></span>
+<span><span class="co">#&gt; [127] jquerylib_0.1.4       Rcpp_1.0.11           dbplyr_2.3.3         </span></span>
+<span><span class="co">#&gt; [130] png_0.1-8             XML_3.99-0.14         parallel_4.3.1       </span></span>
+<span><span class="co">#&gt; [133] ellipsis_0.3.2        pkgdown_2.0.7         ggplot2_3.4.3        </span></span>
+<span><span class="co">#&gt; [136] blob_1.2.4            dotCall64_1.0-2       jpeg_0.1-10          </span></span>
+<span><span class="co">#&gt; [139] latticeExtra_0.6-30   diagram_1.6.5         bitops_1.0-7         </span></span>
+<span><span class="co">#&gt; [142] viridisLite_0.4.2     e1071_1.7-13          scales_1.2.1         </span></span>
+<span><span class="co">#&gt; [145] purrr_1.0.2           crayon_1.5.2          GetoptLong_1.0.5     </span></span>
+<span><span class="co">#&gt; [148] rlang_1.1.1           rgeos_0.6-4</span></span></code></pre>
 </div>
 <div class="section level2">
 <h2 id="references">References<a class="anchor" aria-label="anchor" href="#references"></a>
